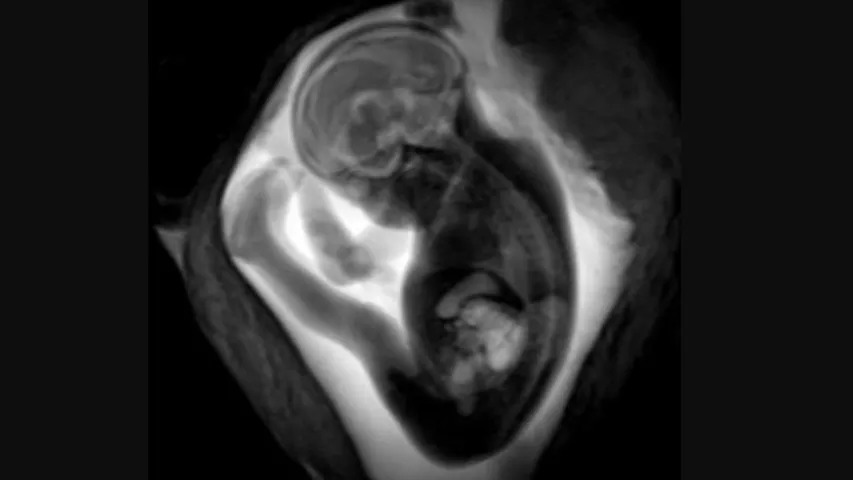
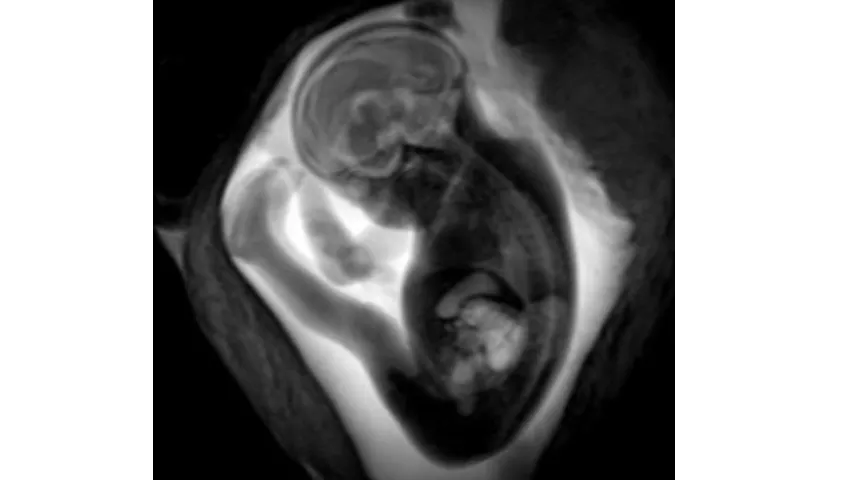
fix bugs, increase image size in fetus

diff --git a/index.js b/index.js
@@ -53,6 +53,9 @@ images.forEach((img,i)=>{
         gradient.style.opacity=0
         gradient.style.maskImage=``
         if(main){
+        img.setAttribute("style", `--width: 180px`);
+        fetus.style.display="none"
+        img.style.opacity=100
         main=false;
         question.style.display="none"
         images.forEach((imge)=>imge.style.display="none")
@@ -60,9 +63,12 @@ images.forEach((img,i)=>{
         para[i].style.display="block"
         img.style.position="static";
         img.style.filter="invert(100%)";
-        document.body.style.background="url('fetus.png') top/cover no-repeat"
+        document.body.style.background="url('fetus.png') top/cover no-repeat black"
         document.body.querySelector('h1').style.display="none"
         }else{
+            img.setAttribute("style", `--width: 150px`);
+            gradient.style.opacity=0
+            img.style.opacity=100
             document.body.querySelector('h1').style.display="block"
             document.body.style.background="linear-gradient(145deg, rgba(115, 191, 125, 1) 0%, rgba(186, 227, 184, 1) 100%)"
             main=true;
@@ -106,11 +112,12 @@ question.addEventListener("click",()=>{
     gradient.style.opacity=0
     gradient.style.maskImage=``
     if(main){
+    question.style.width=140+"px"
     main=false;
     images.forEach((imge)=>imge.style.display="none")
     para[i].style.display="block"
     question.style.filter="invert(100%)";
-    document.body.style.background="url('fetus.png') top/cover no-repeat"
+    document.body.style.background="url('fetus.png') top/cover no-repeat black"
     document.body.querySelector('h1').style.display="none"
     fetus.style.display="none"
     question.style.opacity=0
@@ -120,6 +127,7 @@ question.addEventListener("click",()=>{
        gradient.style.maskPosition=`${question.getBoundingClientRect().left}px ${question.getBoundingClientRect().top}px`
         gradient.style.maskRepeat="no-repeat"
     }else{
+        question.style.width=120+"px"
         document.body.querySelector('h1').style.display="block"
         document.body.style.background="linear-gradient(145deg, rgba(115, 191, 125, 1) 0%, rgba(186, 227, 184, 1) 100%)"
         main=true;

diff --git a/style.css b/style.css
@@ -3,6 +3,7 @@ body{
     background: linear-gradient(145deg, rgba(115, 191, 125, 1) 0%, rgba(186, 227, 184, 1) 100%);
 }
 .gradient{
+    user-select:none;
     z-index:-100000;
     position:absolute;
     top:0;
@@ -20,7 +21,12 @@ h1{
     z-index:-100;
 }
 p{
+    font-family:sans-serif;
     display:none;
+    color:white;
+    font-size:30px;
+    text-shadow: -1px -1px 0 black, 1px -1px 0 black, 1px 1px 0 black,
+    1px 1px 0 black;
 }
 .wrapper{
     top:0;
@@ -36,14 +42,18 @@ p{
 .question{
     width:120px;
     user-select: none;
+    -webkit-user-select: none;
+    -moz-user-select: none;
+    -ms-user-select: none;    
     cursor:pointer;
 }
 .fetus{
+    user-select:none;
     position:relative;
     display:none;
     width:100vw;
     height:100vh;
-    background-color:"black"
+    background-color:black;
 }
 .image{
     --width:150px;
@@ -52,6 +62,9 @@ p{
     user-select: none;
     opacity:100;
     cursor:pointer;
+    -webkit-user-select: none;
+    -moz-user-select: none;
+    -ms-user-select: none;    
 }
 .cow{
     object-fit: contain;
